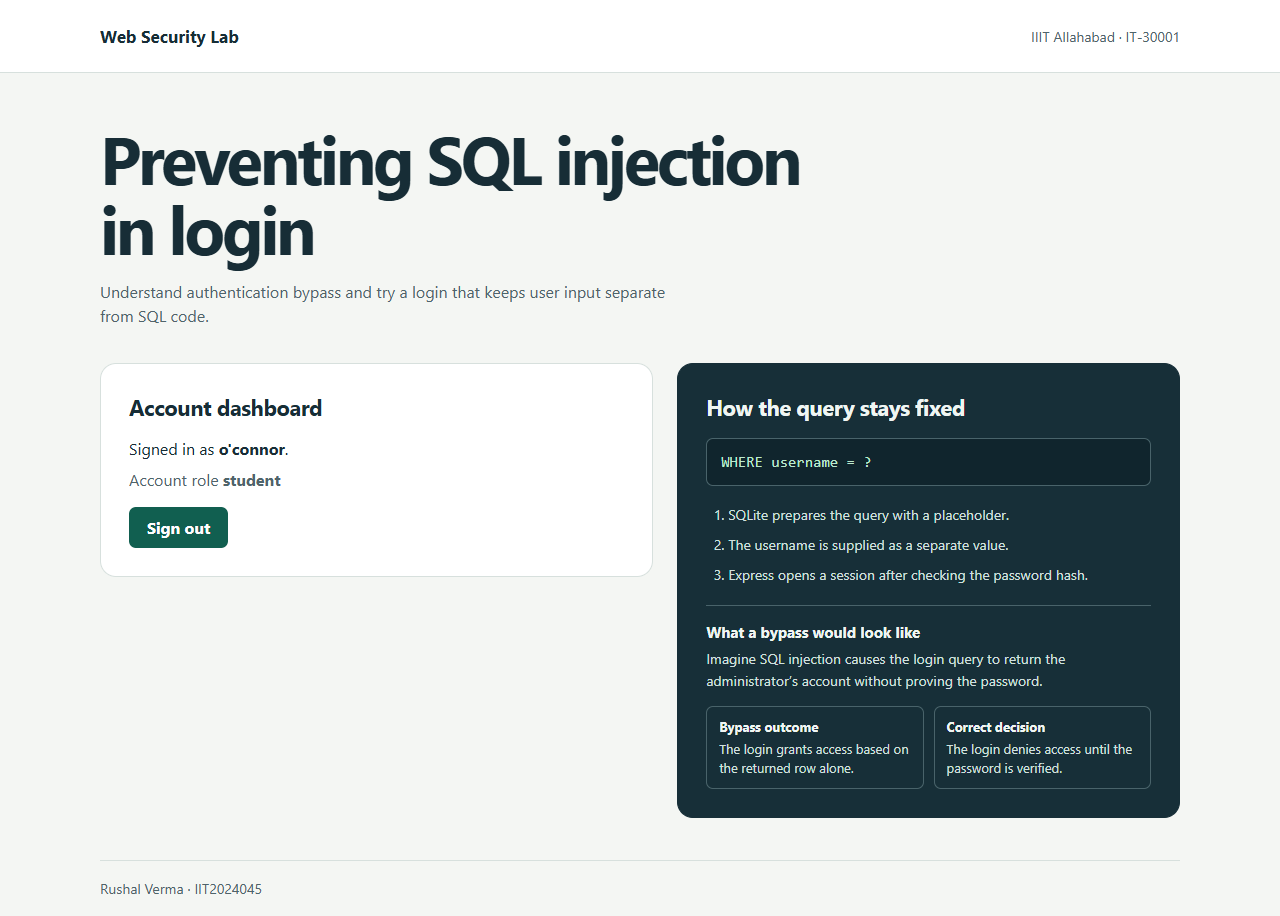
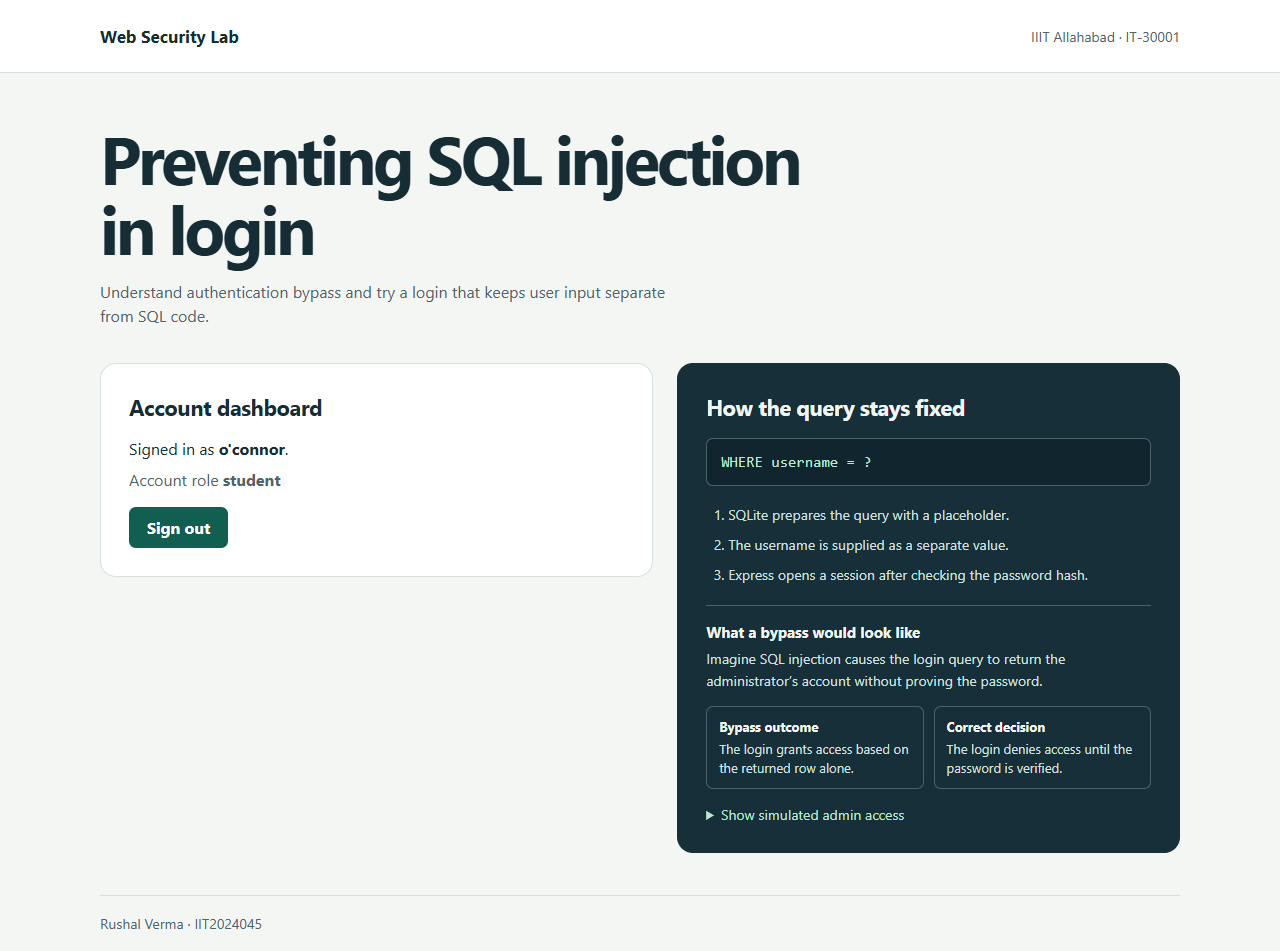
Illustrate unauthorized admin access with a static simulation

diff --git a/IIT2024045/src/styles.css b/IIT2024045/src/styles.css
@@ -82,6 +82,22 @@ code { font-family: "IBM Plex Mono", Consolas, monospace; font-size: 0.95em; }
 .decisions > div { padding: 11px 12px; border: 1px solid #49636a; border-radius: 7px; }
 .decisions dt { margin: 0; color: #f0f6f3; font-size: 13px; font-weight: 650; }
 .decisions dd { margin: 5px 0 0; color: #d1e0df; font-size: 13px; line-height: 1.45; }
+.bypass-simulation { margin-top: 16px; }
+.bypass-simulation summary { color: #bde9cd; font-size: 14px; text-underline-offset: 3px; }
+.bypass-simulation summary:hover { text-decoration: underline; }
+.simulated-dashboard {
+  margin-top: 12px;
+  padding: 15px;
+  background: #10252d;
+  border: 1px solid #49636a;
+  border-radius: 7px;
+}
+.simulated-dashboard h4 { margin: 0; font-size: 15px; }
+.simulated-dashboard dl { display: grid; gap: 8px; margin: 12px 0; }
+.simulated-dashboard dl div { display: flex; flex-wrap: wrap; justify-content: space-between; gap: 2px 12px; }
+.simulated-dashboard dt { margin: 0; color: #d1e0df; font-size: 13px; }
+.simulated-dashboard dd { margin: 0; color: #f0f6f3; font-size: 13px; font-weight: 650; }
+.simulated-dashboard p { border-top: 1px solid #49636a; padding-top: 10px; font-size: 12px; }
 .footer { margin-top: 42px; border-top: 1px solid var(--line); padding-block: 18px; color: var(--muted); font-size: 14px; }
 
 @media (max-width: 690px) {

diff --git a/IIT2024045/src/main.jsx b/IIT2024045/src/main.jsx
@@ -148,6 +148,18 @@ function App() {
                 <dd>The login denies access until the password is verified.</dd>
               </div>
             </dl>
+            <details className="bypass-simulation">
+              <summary>Show simulated admin access</summary>
+              <div className="simulated-dashboard">
+                <h4>Simulated admin dashboard</h4>
+                <dl>
+                  <div><dt>Account</dt><dd>Demo administrator</dd></div>
+                  <div><dt>Password verification</dt><dd>Missing</dd></div>
+                  <div><dt>Access in this scenario</dt><dd>Granted</dd></div>
+                </dl>
+                <p>This panel uses fixed fictional data and creates no session.</p>
+              </div>
+            </details>
           </aside>
         </div>
       </main>

diff --git a/IIT2024045/docs/DEMO_SCRIPT.md b/IIT2024045/docs/DEMO_SCRIPT.md
@@ -1,16 +1,16 @@
 # Demo video script
 
-Rushal Verma · IIT2024045 · Authentication bypass concept and live mitigation
+Rushal Verma · IIT2024045 · Simulated bypass and live mitigation
 
 Start the app. Open the browser, `server/database.js`, and `server/app.js`. Begin signed out. The script takes about 2–3 minutes with the on-screen actions. [Run instructions](../README.md#run-locally)
 
 | Time | On screen | Say |
 | --- | --- | --- |
 | 0:00–0:20 | Show the page and your name and roll number in the footer. | “Hi, I’m Rushal Verma, IIT2024045. My topic is SQL injection authentication bypass. First I’ll explain what counts as a bypass, then I’ll show how this login prevents it.” |
-| 0:20–0:55 | Point to **What a bypass would look like** and **Bypass outcome**. | “An authentication bypass means getting signed-in access without proving valid credentials. In this hypothetical example, SQL injection changes the login query and it returns an administrator row. A vulnerable app grants access based on that result alone. The bypass is the unauthorized session.” |
+| 0:20–0:55 | Select **Show simulated admin access**. Point to **Password verification** and **Access in this scenario**, then close the simulation. | “An authentication bypass means getting signed-in access without proving valid credentials. Imagine a vulnerable login grants access when its query returns an administrator row, even though the password was never verified. In this simulation you can see that incorrect result. The panel uses fictional data, so my real login is still signed out.” |
 | 0:55–1:35 | Show `db.prepare` and `findUser.get(username)` in the user store, then point to the hash check. | “My app prepares the SQL with a question-mark placeholder and passes the username separately. SQLite uses it as data. The lookup identifies an account, and the app verifies the password before Express creates a session.” |
 | 1:35–2:05 | Sign in as `o'connor` with a wrong password. Show the error. Open `/api/account` on the same server in another tab and show its sign-in error. | “This is a normal failed login. The apostrophe is part of a real demo username. With the wrong password, I get a rejection and the protected account endpoint stays inaccessible.” |
 | 2:05–2:40 | Return to the login tab. Use the same username with its correct demo password, show the dashboard, then sign out. | “The correct password opens the session for the same user. That shows the protection keeps ordinary logins working. Parameter binding keeps the SQL fixed. Input validation, limited privileges, and generic errors provide additional layers.” |
 
-The bypass scene is conceptual. The live sequence checks that invalid credentials leave the protected endpoint inaccessible and valid credentials open it. Evidence of a working exploit remains outstanding. [User store](../server/database.js) · [Express routes](../server/app.js)
+The simulated scene illustrates the bypass outcome. The live sequence checks that invalid credentials leave the protected endpoint inaccessible and valid credentials open it. Evidence of a working exploit remains outstanding. [User store](../server/database.js) · [Express routes](../server/app.js)
 

diff --git a/IIT2024045/README.md b/IIT2024045/README.md
@@ -48,8 +48,8 @@ Input length and type checks help define valid requests. Least privilege limits 
 
 ## Demonstrate and verify
 
-1. Point to **What a bypass would look like**. This is a hypothetical outcome where an incorrect login decision opens a session without credential proof.
-2. Begin signed out. Sign in as `o'connor` with a wrong password. The app displays **Invalid username or password**. Opening `/api/account` while signed out returns HTTP 401.
+1. Begin signed out and select **Show simulated admin access** under **What a bypass would look like**. It displays a hypothetical administrator dashboard with access granted and password verification missing. The actual account endpoint stays protected.
+2. Close the simulation. Sign in as `o'connor` with a wrong password. The app displays **Invalid username or password**. Opening `/api/account` while signed out returns HTTP 401.
 3. Point to the prepared statement and the bound username in `server/database.js`.
 4. Use the same username with its correct demo password. The student dashboard opens. Refresh to check that the session still works, then sign out.
 

diff --git a/IIT2024045/evidence/README.md b/IIT2024045/evidence/README.md
@@ -4,6 +4,7 @@
 | --- | --- |
 | [Wrong password rejected](01-wrong-password.png) | The student account receives a generic failure with an incorrect password. |
 | [Correct password accepted](02-student-dashboard.png) | The same username, including its apostrophe, reaches the protected dashboard with the correct password. |
+| [Simulated admin access](03-simulated-bypass.png) | The illustration uses fictional data to show access granted despite missing password verification. |
 
-These screenshots show the live login checks. The panel beside the form illustrates a hypothetical bypass outcome. [Recording script](../docs/DEMO_SCRIPT.md)
+[Recording script](../docs/DEMO_SCRIPT.md)
 
